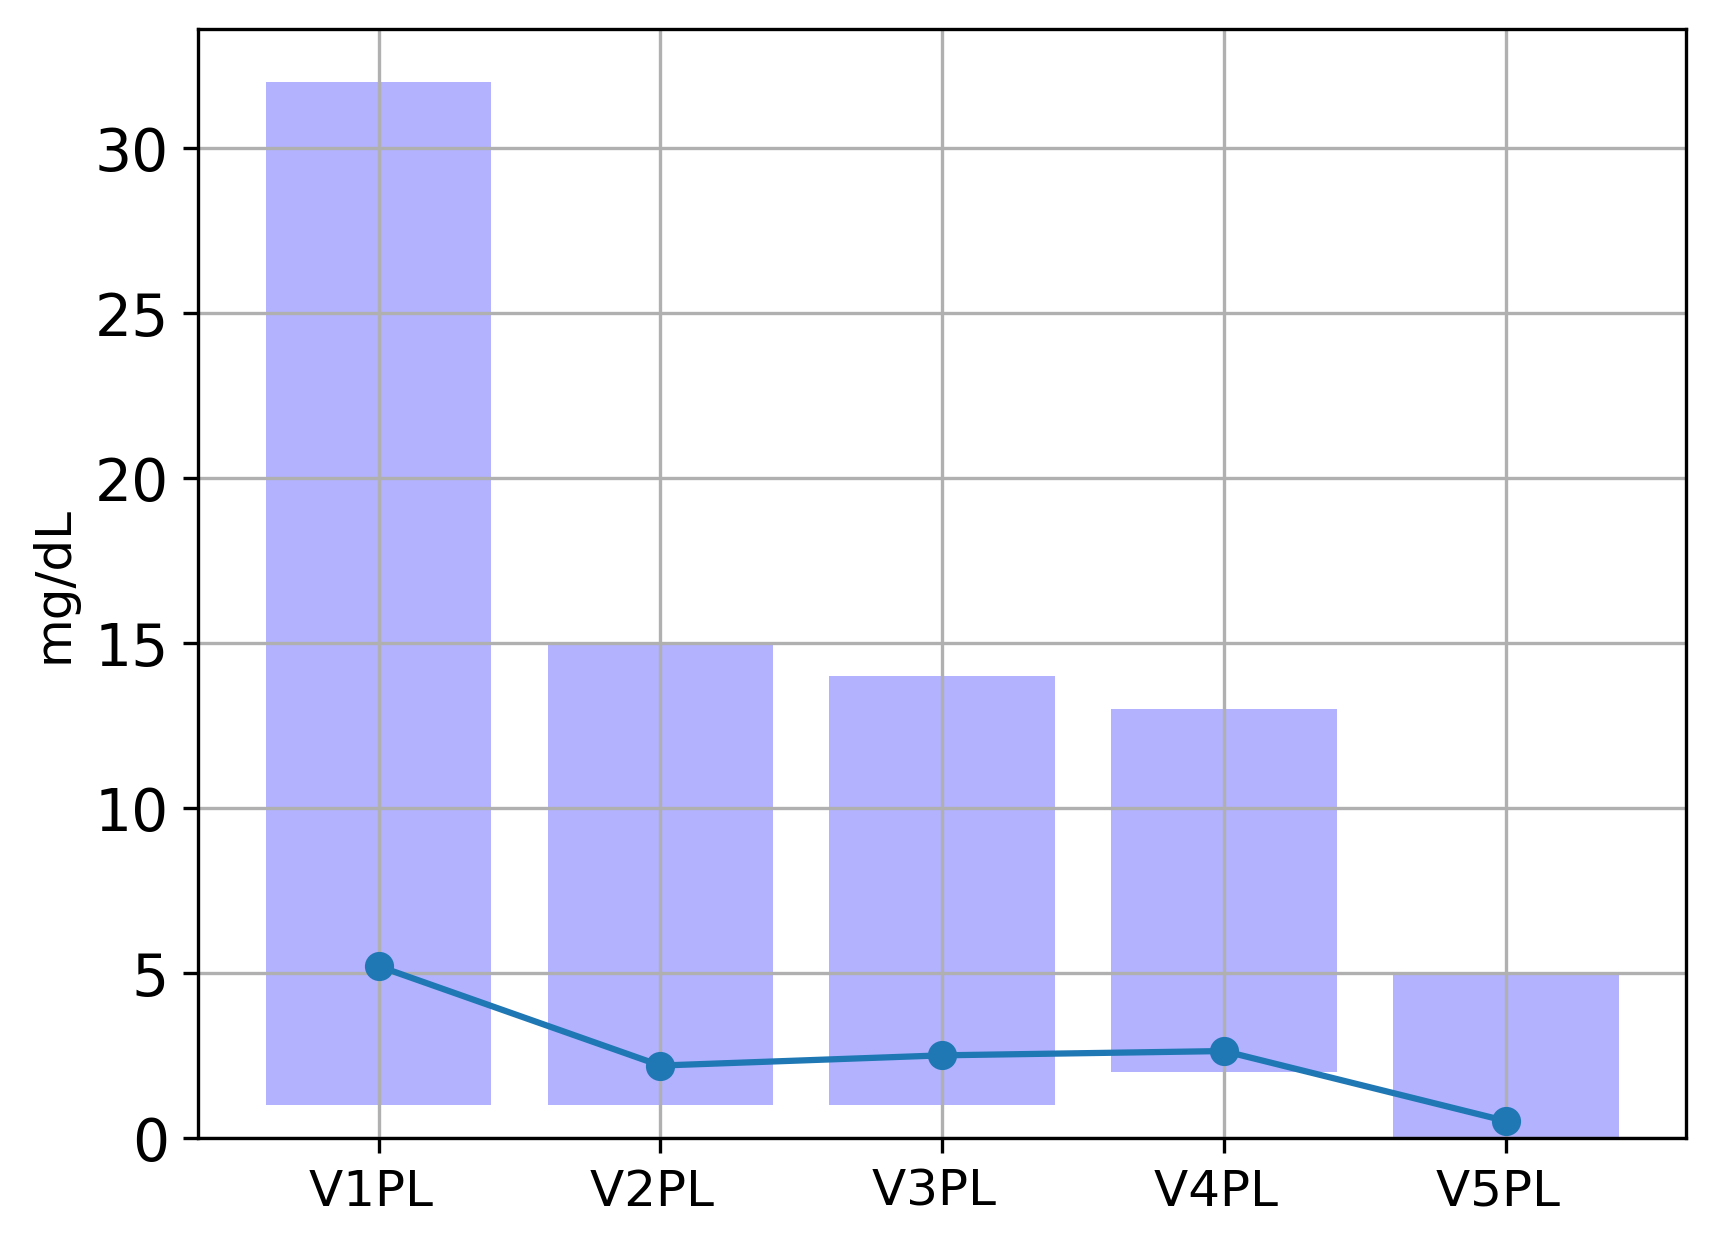
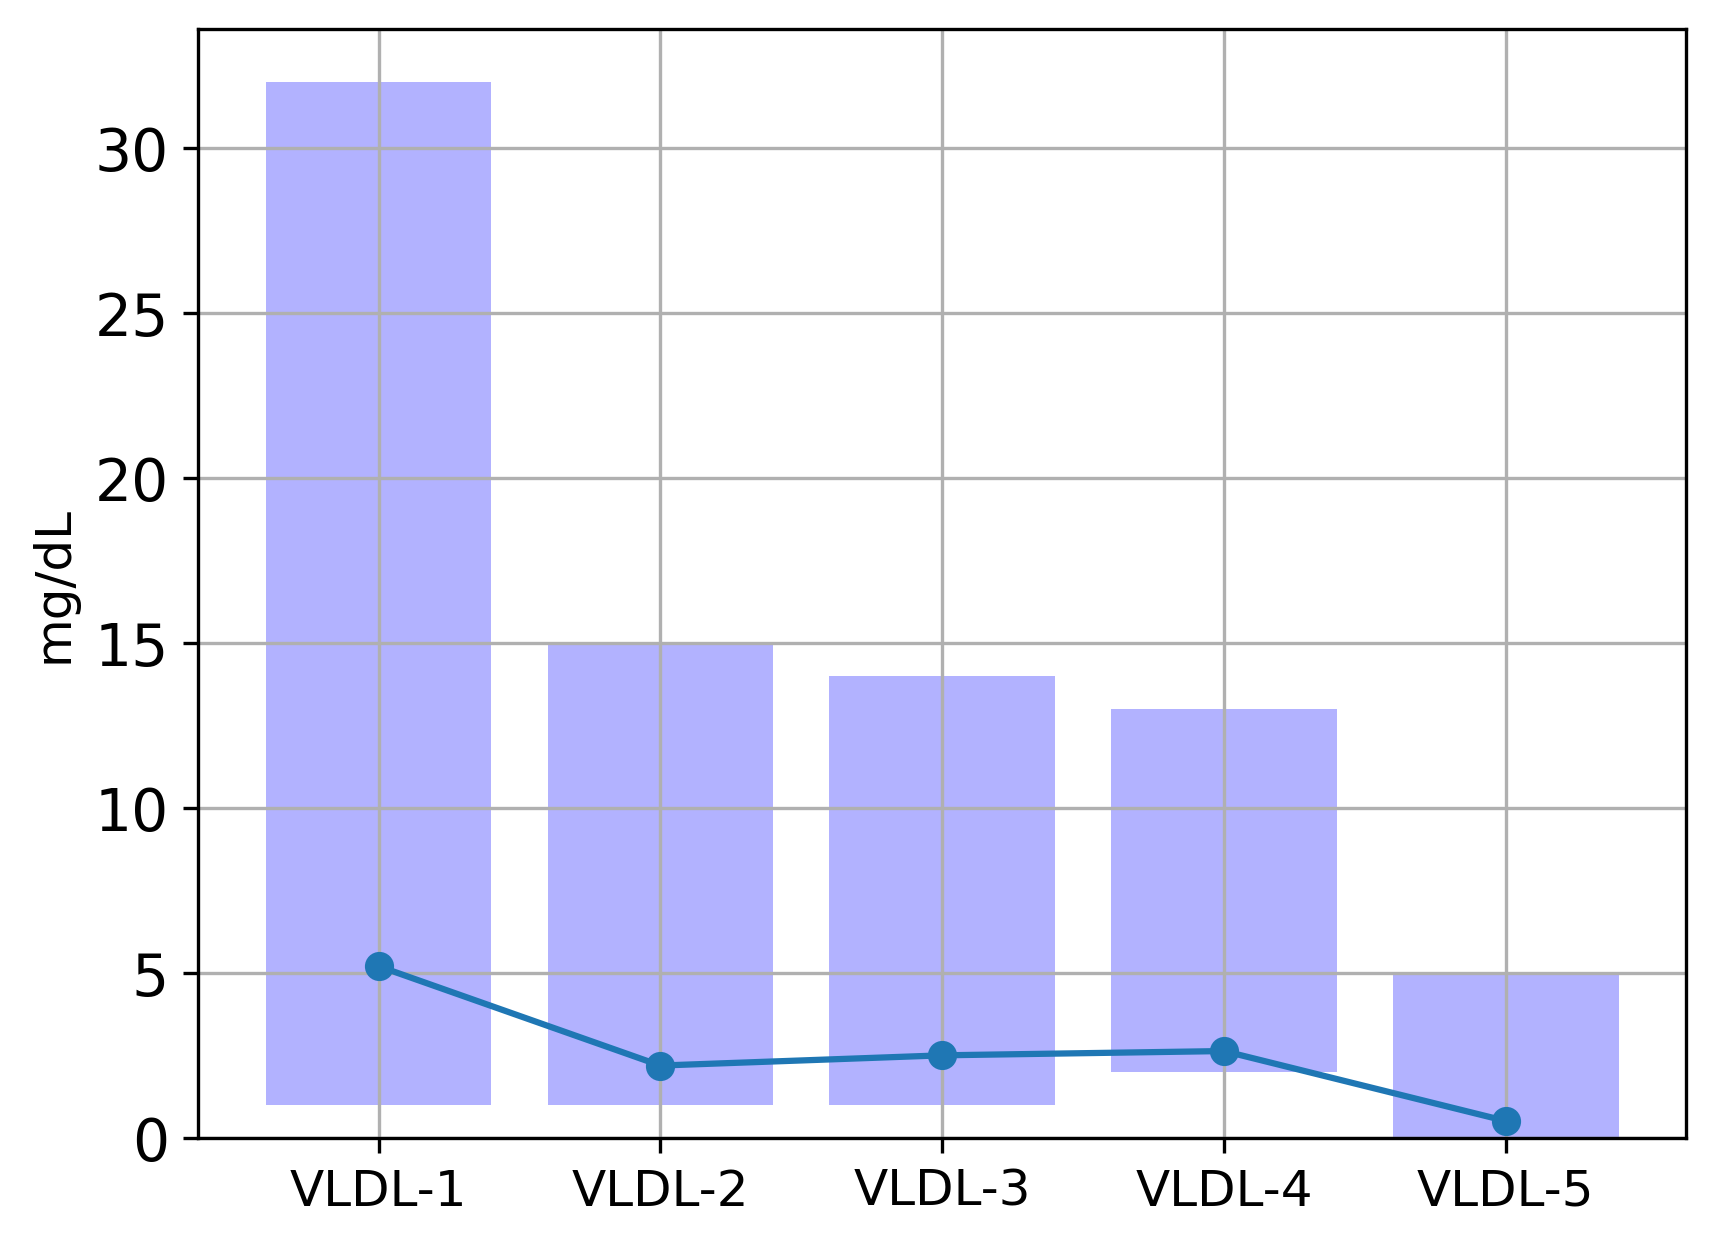
Update on x axis tick labels and footnotes

diff --git a/Update/Version3.html b/Update/Version3.html
@@ -314,9 +314,8 @@
 
         </div>
         <div>
-            <br><br><br><br><br><br>
-            <p>Intervals for LDL Particle Number is set by referencing the study of
-                Mora, et al. Atherosclerosis 2007.</p>
+            <br>
+            <p>Shaded areas represent 95% range of model, black points represent patient results.</p>
         </div>
     </section>
 </body>

diff --git a/Update/v3_css.css b/Update/v3_css.css
@@ -82,7 +82,7 @@ hr {
 
 #profile_page .secrow .box_container {
     display: grid;
-    grid-template-columns: 357px 239px 296px;
+    grid-template-columns: 357px 239px 226px;
     align-items: center;
     justify-content: left;
 }

diff --git a/Update/start.py b/Update/start.py
@@ -6,6 +6,8 @@ from range_charts import t_chart
 from save_plot import insert_plot as IP
 import ReferenceDictionary as dd
 
+
+
 maindata = pd.read_csv("lipo_result_file_1.csv")
 maindata.drop(["Directory","name","date","type"],axis = 1, inplace=True)
 
